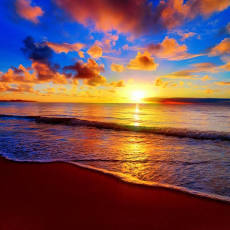
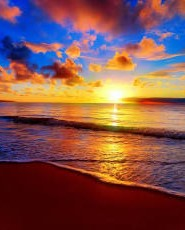
deleted reference copies

diff --git a/Project9_countdown_slideshow/index.html b/Project9_countdown_slideshow/index.html
@@ -20,19 +20,19 @@
       <!--Full-width images with number and caption text-->
       <div class="mySlides fade">
          <div class="numbertext">1 / 3</div>
-         <img src="./Thumbnail_1.JPEG" style="width:100%">
+         <img src="./Images/IMG1.jpg" style="width:100%">
          <div class="text">Caption Text</div>
        </div>
 
        <div class="mySlides fade">
          <div class="numbertext">2 / 3</div>
-         <img src="/Basic_JavaScript_Projects/Images/IMG2.jpg" style="width:100%">
+         <img src="./Images/IMG2.jpg" style="width:100%">
          <div class="text">Caption Two</div>
        </div>
 
        <div class="mySlides fade"> 
          <div class="numbertext">3 / 3</div>
-         <img src="/Basic_JavaScript_Projects/Images/IMG3.jpg" style="width:100%">
+         <img src="./Images/IMG3.jpg" style="width:100%">
          <div class="text">Caption Three</div>
        </div>
 

diff --git a/Project9_countdown_slideshow/CSS/main.css b/Project9_countdown_slideshow/CSS/main.css
@@ -1,5 +1,11 @@
 * {box-sizing:border-box}
 
+img {
+   height: 400px;
+   width: 300px;
+   object-fit: cover;
+}
+
 /*Slideshow container*/
 .slideshow-container {
    max-width: 1000px;
